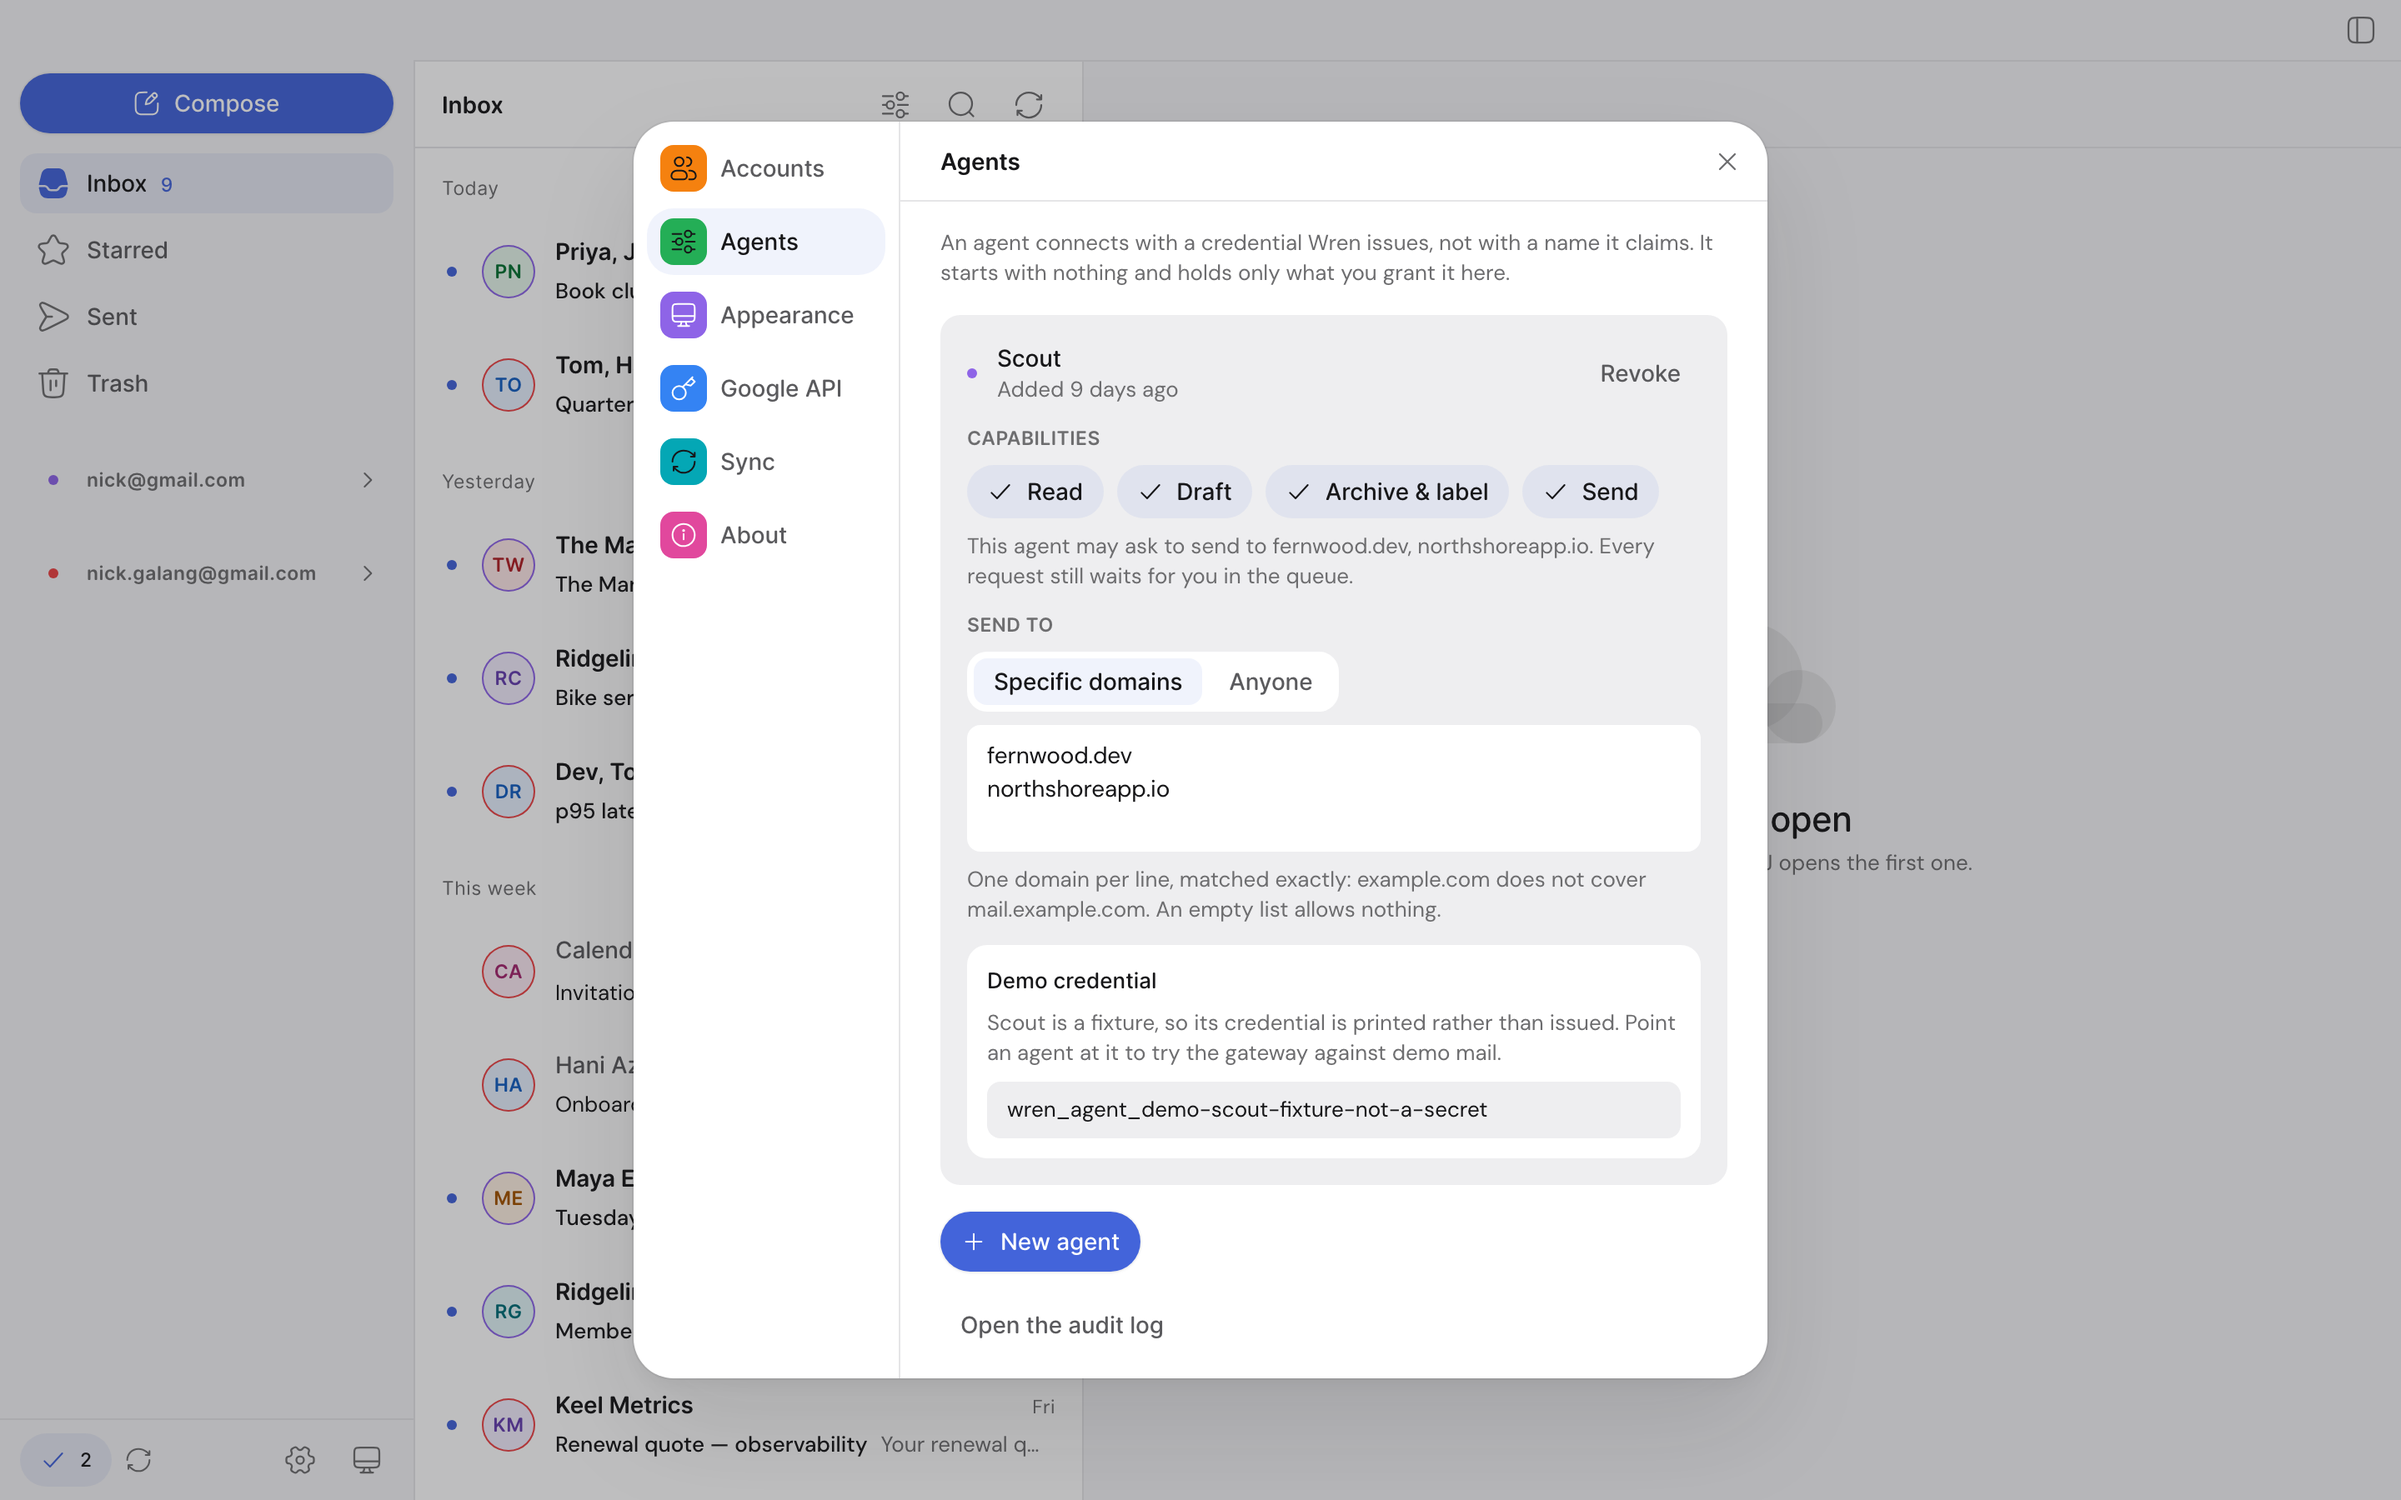
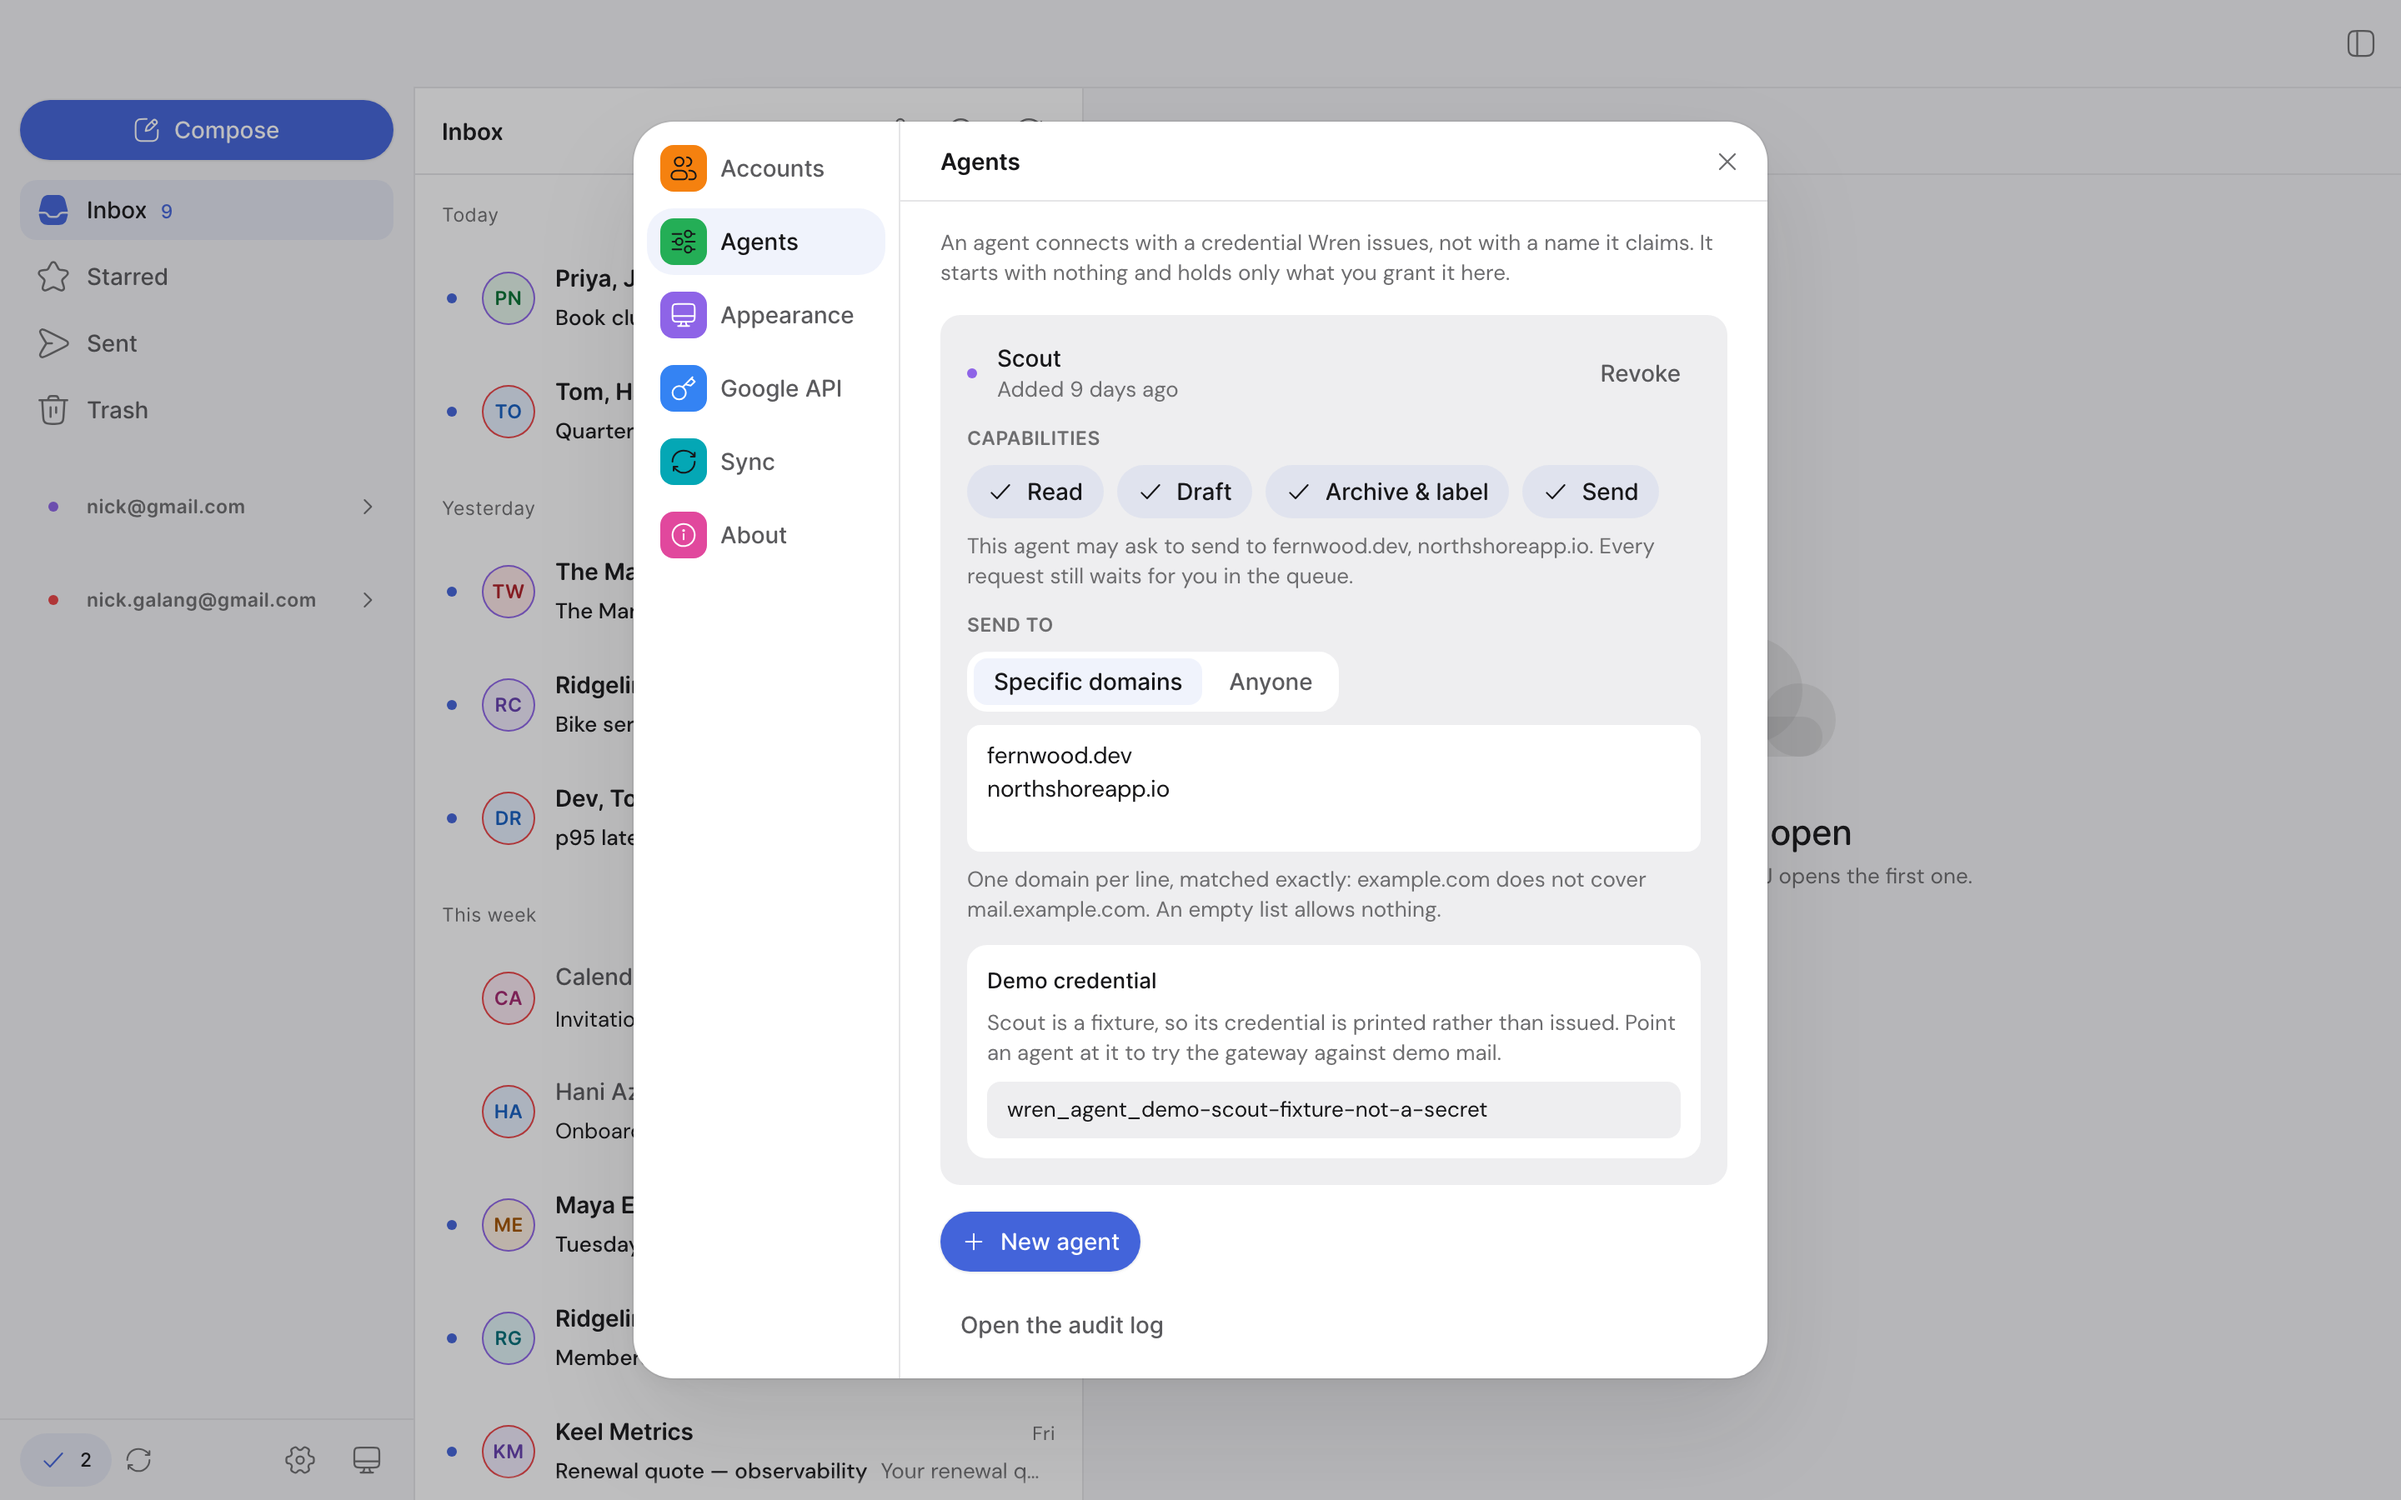
Titlebar zone to 52px, lights centered — matched to Nick's references
Nick supplied three reference apps (Claude, Codex, Figma-style): lights
centered ~26pt in a taller quiet band, first sidebar element well below.
--wren-titlebar-h 36 -> 52 everywhere (one rhythm, browser included);
Rust INSET_Y follows ((52-14)/2). Verified on the signed build by
screencapture and against the references; 427 tests; all 14 captures
re-cut with the taller strip.

diff --git a/src/styles/tokens.css b/src/styles/tokens.css
@@ -481,14 +481,15 @@
        --wren-space-* mirror of it went unread in every component. */
 
     /* --- Pane measures: alignment decided once ---------------------------- */
-    --wren-titlebar-h: 36px;
+    --wren-titlebar-h: 52px;
     /* The macOS overlay traffic lights, as a measure the strip can reserve.
        tauri.conf.json pins them at (16, 11) and macOS draws three 12 px discs
        at a 20 px pitch, so they occupy 20 + 12 + 8 + 12 + 8 + 12 = 72 px. The
        zone is that plus a 12 px gutter — the same gutter the sidebar gives its
        own content — which lands on 84 and stays on DIRECTION §5's 4 px grid.
-       The 20 px inset (with y=12, centering the lights in the 36 px strip) is
-       macOS 26's doing: the Tahoe window radius swallowed the old (16, 11).
+       The 20 px inset, with the lights centered in the 52 px strip (Rust owns
+       the y — see lib.rs), matches the zone Claude, Codex and Figma give the
+       controls; macOS 26's Tahoe radius swallowed the old (16, 11).
        Change it here if `trafficLightPosition` ever moves. */
     --wren-titlebar-lights-w: 84px;
     /* Windows draws minimise / maximise / close on the trailing edge and

diff --git a/src-tauri/src/lib.rs b/src-tauri/src/lib.rs
@@ -197,7 +197,7 @@ fn place_traffic_lights(window: &tauri::Window) {
   use objc2_foundation::NSPoint;
 
   const INSET_X: f64 = 20.0;
-  const INSET_Y: f64 = 11.0; // (36 - 14) / 2, from --wren-titlebar-h
+  const INSET_Y: f64 = 19.0; // (52 - 14) / 2, from --wren-titlebar-h
 
   let Ok(handle) = window.ns_window() else { return };
   let ns = unsafe { &*(handle as *const NSWindow) };
